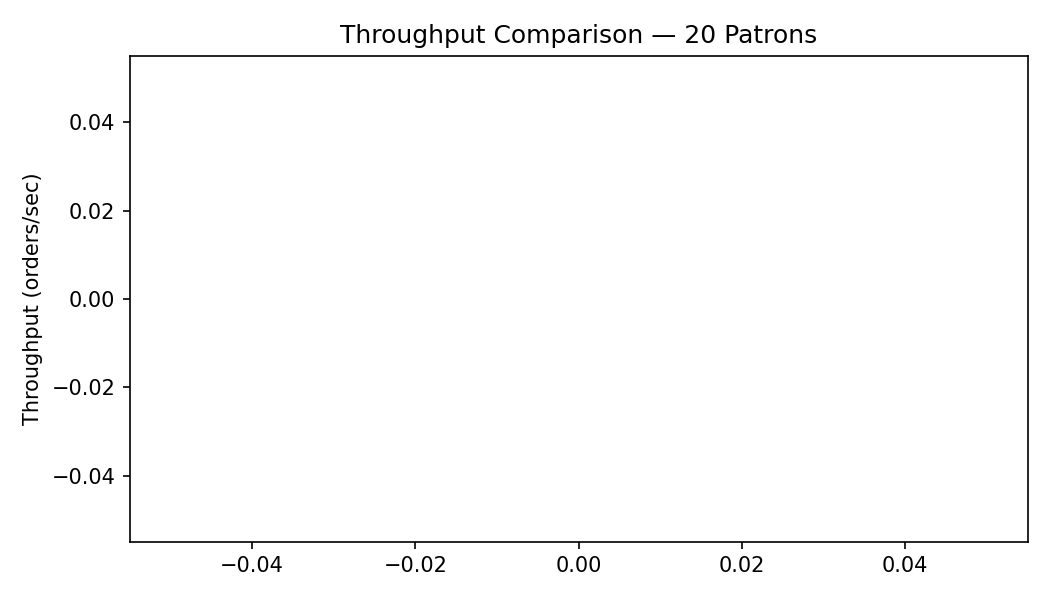
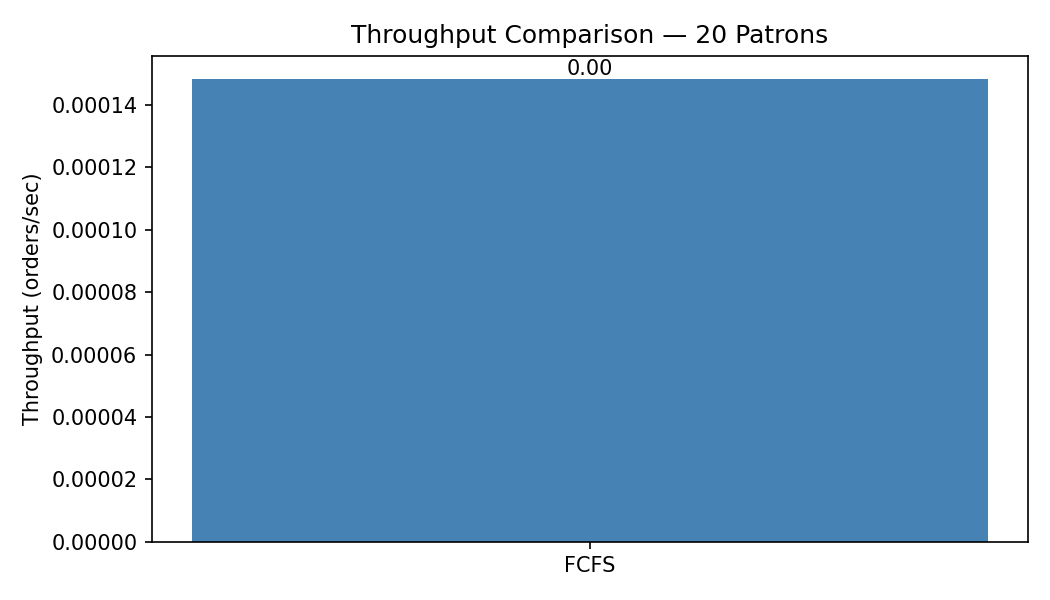
Added LOTTERY algorithm to analysis and updated plots and results accordingly

diff --git a/analysis/analyse.py b/analysis/analyse.py
@@ -9,7 +9,7 @@ RESULTS_DIR = SCRIPT_DIR.parent / "results"
 PLOTS_DIR = SCRIPT_DIR / "plots"
 PLOTS_DIR.mkdir(parents=True, exist_ok=True)
 
-ALGORITHMS = ["FCFS", "SJF", "PRIORITY", "MLFQ"]
+ALGORITHMS = ["FCFS", "SJF", "PRIORITY", "MLFQ", "LOTTERY"]
 PATRON_SIZES = [5, 10, 20, 30, 50]
 
 # ── 1. Load all CSVs into one master DataFrame ────────────────────────────────
@@ -32,7 +32,12 @@ def load_all_results():
             seed = int(parts[2].replace("s",""))
         else:
             # Handle legacy format like "FCFS_results"
-            n = 5  # Assume 5 patrons based on patronID range
+            # Infer n from the data (max patronID + 1) if possible
+            temp_df = pd.read_csv(fpath)
+            if "patronID" in temp_df.columns and not temp_df.empty:
+                n = int(temp_df["patronID"].max()) + 1
+            else:
+                n = 5
             seed = 42  # Default seed
 
         df = pd.read_csv(fpath)
@@ -141,7 +146,20 @@ def boxplot_for_n(df, n, metric="waitingTime"):
     plt.close()
     print(f"Saved: {fname}")
 
-for n in [10, 30]:
+# Choose sensible n values for boxplots based on available runs
+n_unique = sorted(df["n_patrons"].unique())
+box_ns = []
+if 10 in n_unique:
+    box_ns.append(10)
+if 30 in n_unique:
+    box_ns.append(30)
+if not box_ns:
+    if len(n_unique) >= 2:
+        box_ns = [n_unique[0], n_unique[-1]]
+    else:
+        box_ns = [n_unique[0]]
+
+for n in box_ns:
     boxplot_for_n(df, n, "waitingTime")
     boxplot_for_n(df, n, "turnaroundTime")
 
@@ -159,7 +177,14 @@ def throughput_bar(agg, n):
     plt.savefig(fname, dpi=150)
     plt.close()
 
-throughput_bar(agg, 20)
+# Pick throughput n: prefer 20 if present, otherwise use median available n
+n_unique_agg = sorted(agg["n_patrons"].unique())
+if 20 in n_unique_agg:
+    throughput_n = 20
+else:
+    throughput_n = n_unique_agg[len(n_unique_agg)//2]
+
+throughput_bar(agg, throughput_n)
 
 # ── 6. Per-Patron Fairness: Waiting Time Variance per Algorithm ───────────────
 
@@ -172,4 +197,4 @@ def fairness_analysis(df, n):
     print(f"\nFairness (lower variance = fairer) for n={n}:")
     print(variance_agg.to_string(index=False))
 
-fairness_analysis(df, 20)
+fairness_analysis(df, throughput_n)

diff --git a/validate_results.py b/validate_results.py
@@ -69,7 +69,7 @@ def validate_csv(path: Path) -> int:
                 print(f"ERROR: line {line_number} has negative timing values: waiting={waiting_time}, response={response_time}, turnaround={turnaround_time}")
                 errors += 1
 
-            if not (arrival_time < service_start < completion_time):
+            if not (arrival_time <= service_start < completion_time):
                 print(f"ERROR: line {line_number} has inconsistent timestamps: arrival={arrival_time}, serviceStart={service_start}, completion={completion_time}")
                 errors += 1
 